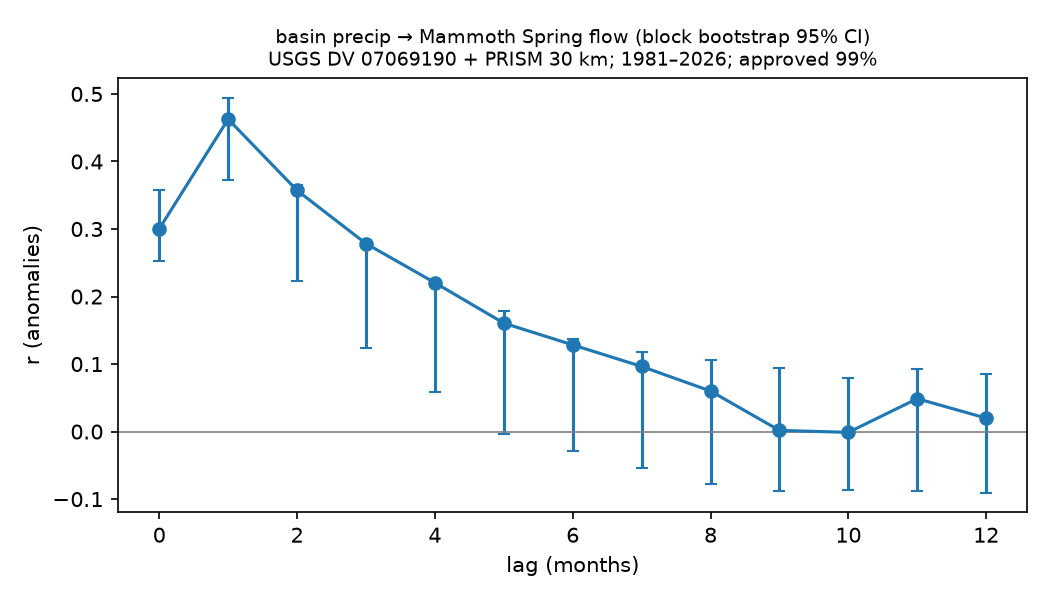
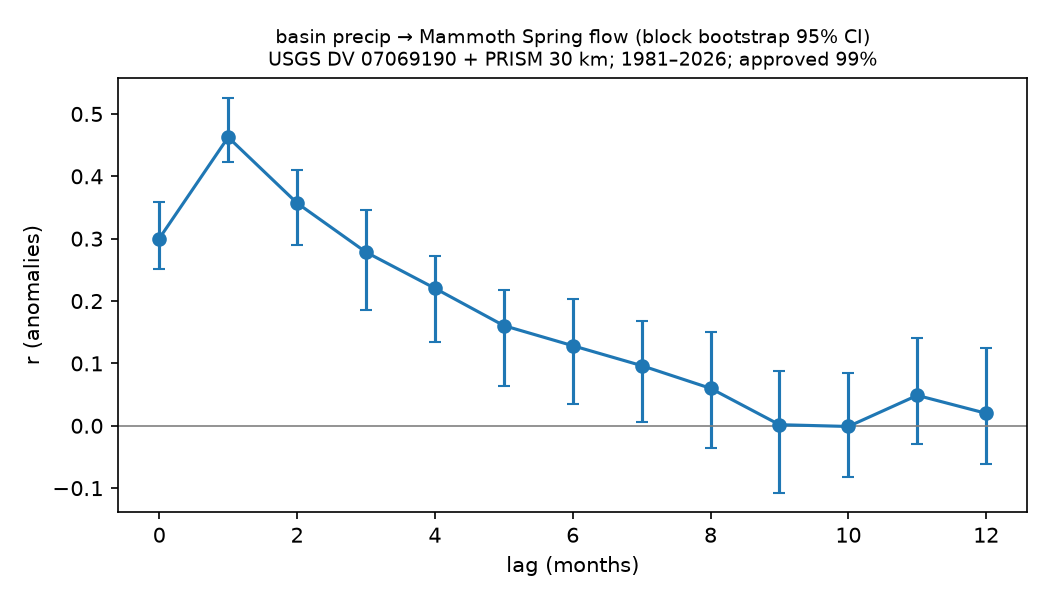
fix(study): block-bootstrap lagged pairs (not raw series) in lag_correlation

diff --git a/spring-river-study/src/spring_river/climate/coupling.py b/spring-river-study/src/spring_river/climate/coupling.py
@@ -41,11 +41,19 @@ def lag_correlation(m: pd.DataFrame, max_lag: int = 12, n_boot: int = 1000, seed
     rows = []
     for lag in range(max_lag + 1):
         r, n = _lag_r(d, lag)
+        # Lag FIRST, then block-resample the aligned pairs: resampling the raw
+        # series before lagging would break pairs at every block boundary and
+        # bias the bootstrap r low.
+        x = d["p_a"].shift(lag).to_numpy()
+        y = d["q_a"].to_numpy()
+        ok = ~np.isnan(x) & ~np.isnan(y)
+        px, py = x[ok], y[ok]
         boots = []
-        for _ in range(n_boot):
-            starts = rng.integers(0, len(d) - 12, n_blocks)
-            sample = pd.concat([d.iloc[s : s + 12] for s in starts], ignore_index=True)
-            boots.append(_lag_r(sample, lag)[0])
+        if len(px) >= 24:
+            for _ in range(n_boot):
+                starts = rng.integers(0, len(px) - 12, n_blocks)
+                idx = np.concatenate([np.arange(s, s + 12) for s in starts])
+                boots.append(np.corrcoef(px[idx], py[idx])[0, 1])
         boots = np.array([b for b in boots if not np.isnan(b)])
         lo, hi = (np.percentile(boots, [2.5, 97.5]) if len(boots) else (float("nan"), float("nan")))
         rows.append({"lag": lag, "r": r, "r_lo": float(min(lo, r)), "r_hi": float(max(hi, r)), "n": n})

diff --git a/spring-river-study/src/spring_river/analysis/phase6.py b/spring-river-study/src/spring_river/analysis/phase6.py
@@ -153,9 +153,8 @@ def main() -> None:
               f"- {COOP_SID} has 32 gaps > 7 days (qa_report); years failing 90% coverage are NaN, not low. KUNO years before 1998 are NaN by coverage.",
               "- Precip series carry no approval flag; the all/approved-only rule does not apply here. "
               f"Mammoth flow used in coupling: {caption(f'USGS DV {SITE_MAMMOTH}', mammoth)}.",
-              "- Lag correlation uses a fixed 12-month block bootstrap; lagged pairs that straddle block boundaries are "
-              "scrambled, which biases resampled r low and makes the CI asymmetric (the upper bound hugs the point "
-              "estimate). Read r_lo as the conservative bound; the CI does not otherwise correct for serial correlation."]
+              "- Lag-correlation CI is a 12-month block bootstrap of the lagged pairs; it preserves within-year "
+              "serial correlation but not dependence across block boundaries, so it is mildly optimistic."]
     write_report(DOCS_DIR / "phase6_precip.md", lines)
     print(f"wrote {DOCS_DIR / 'phase6_precip.md'} (lag bootstrap {lag_secs:.0f} s)")
 

diff --git a/spring-river-study/docs/phase6_precip.md b/spring-river-study/docs/phase6_precip.md
@@ -71,25 +71,25 @@ Series: USC00238880 West Plains COOP (1981-01-01–2026-08-24; COOP series 1981+
 
 ## Coupling: monthly basin precip → Mammoth Spring flow (anomaly correlation by lag)
 
-Monthly anomalies (climatology removed; log flow), lags 0–12 months, 1000 12-month block-bootstrap resamples for the CI (12 s).
+Monthly anomalies (climatology removed; log flow), lags 0–12 months, 1000 12-month block-bootstrap resamples for the CI (0 s).
 
 |   lag |      r |   r_lo |   r_hi |   n |
 |------:|-------:|-------:|-------:|----:|
 |     0 |  0.3   |  0.252 |  0.358 | 545 |
-|     1 |  0.463 |  0.373 |  0.494 | 545 |
-|     2 |  0.357 |  0.222 |  0.366 | 545 |
-|     3 |  0.278 |  0.124 |  0.283 | 544 |
-|     4 |  0.22  |  0.059 |  0.22  | 543 |
-|     5 |  0.161 | -0.003 |  0.179 | 542 |
-|     6 |  0.128 | -0.029 |  0.138 | 541 |
-|     7 |  0.096 | -0.053 |  0.118 | 540 |
-|     8 |  0.06  | -0.077 |  0.106 | 539 |
-|     9 |  0.002 | -0.088 |  0.094 | 538 |
-|    10 | -0.001 | -0.087 |  0.08  | 537 |
-|    11 |  0.049 | -0.088 |  0.093 | 536 |
-|    12 |  0.02  | -0.09  |  0.085 | 535 |
+|     1 |  0.463 |  0.422 |  0.526 | 545 |
+|     2 |  0.357 |  0.29  |  0.409 | 545 |
+|     3 |  0.278 |  0.186 |  0.347 | 544 |
+|     4 |  0.22  |  0.134 |  0.272 | 543 |
+|     5 |  0.161 |  0.064 |  0.217 | 542 |
+|     6 |  0.128 |  0.035 |  0.203 | 541 |
+|     7 |  0.096 |  0.007 |  0.169 | 540 |
+|     8 |  0.06  | -0.036 |  0.151 | 539 |
+|     9 |  0.002 | -0.107 |  0.088 | 538 |
+|    10 | -0.001 | -0.083 |  0.085 | 537 |
+|    11 |  0.049 | -0.029 |  0.14  | 536 |
+|    12 |  0.02  | -0.062 |  0.125 | 535 |
 
-- response lag (max r): 1 months, r=0.46 (95% CI 0.37 to 0.49), n=545 months
+- response lag (max r): 1 months, r=0.46 (95% CI 0.42 to 0.53), n=545 months
 
 ![indices](../reports/figures/phase6_indices.png)
 
@@ -105,4 +105,4 @@ Figure: source: USGS DV 07069190 + PRISM 30 km basin mean; period 1981-02-25–2
 - COOP series 1981+ in this build (cache keyed on station id); the 1948–1980 record is not yet pulled, so the USC00238880 trend window matches KUNO/basin rather than extending it.
 - USC00238880 has 32 gaps > 7 days (qa_report); years failing 90% coverage are NaN, not low. KUNO years before 1998 are NaN by coverage.
 - Precip series carry no approval flag; the all/approved-only rule does not apply here. Mammoth flow used in coupling: source: USGS DV 07069190; period 1981-02-25–2026-08-23; approved 99%, provisional from 2026-04-09.
-- Lag correlation uses a fixed 12-month block bootstrap; lagged pairs that straddle block boundaries are scrambled, which biases resampled r low and makes the CI asymmetric (the upper bound hugs the point estimate). Read r_lo as the conservative bound; the CI does not otherwise correct for serial correlation.
+- Lag-correlation CI is a 12-month block bootstrap of the lagged pairs; it preserves within-year serial correlation but not dependence across block boundaries, so it is mildly optimistic.
